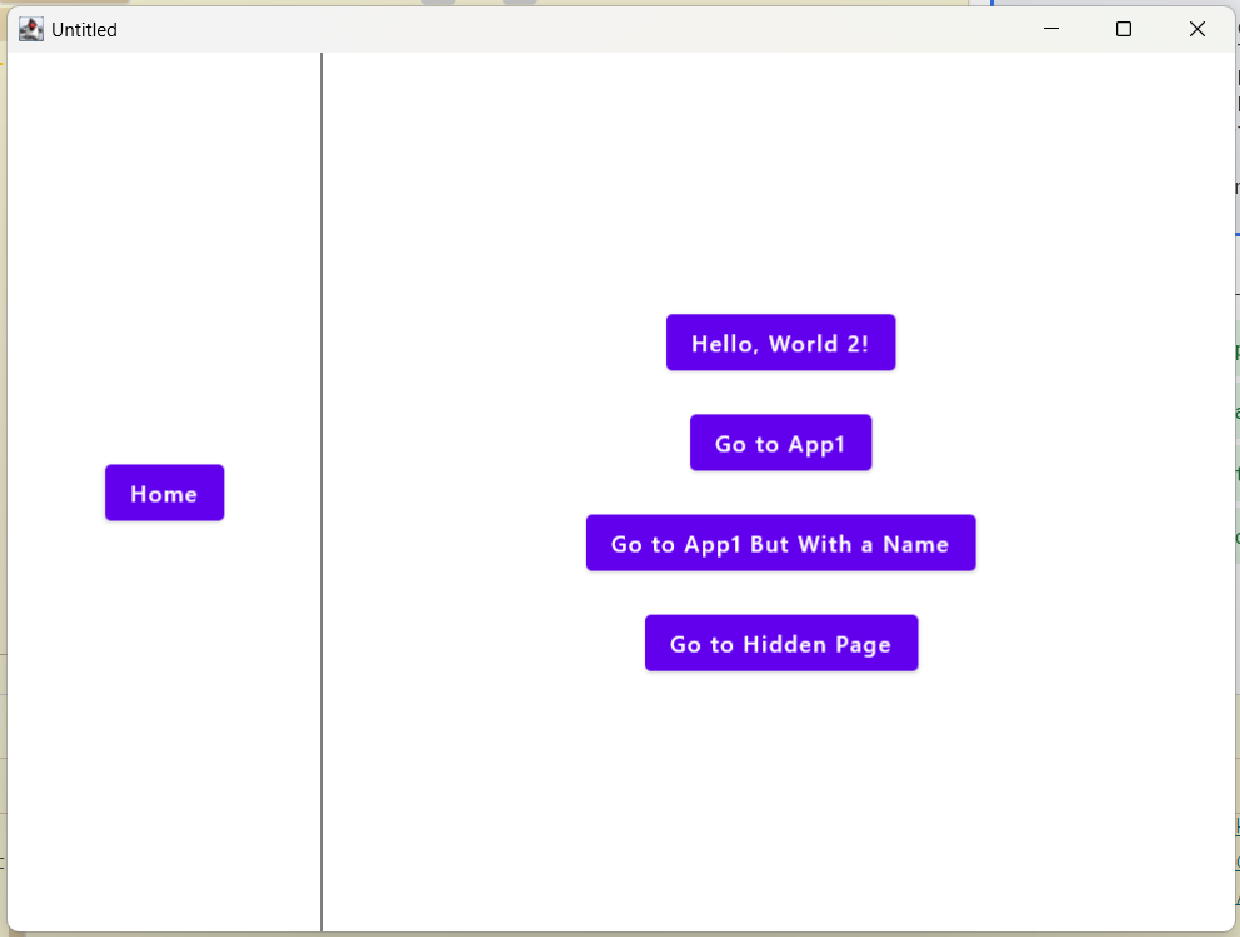
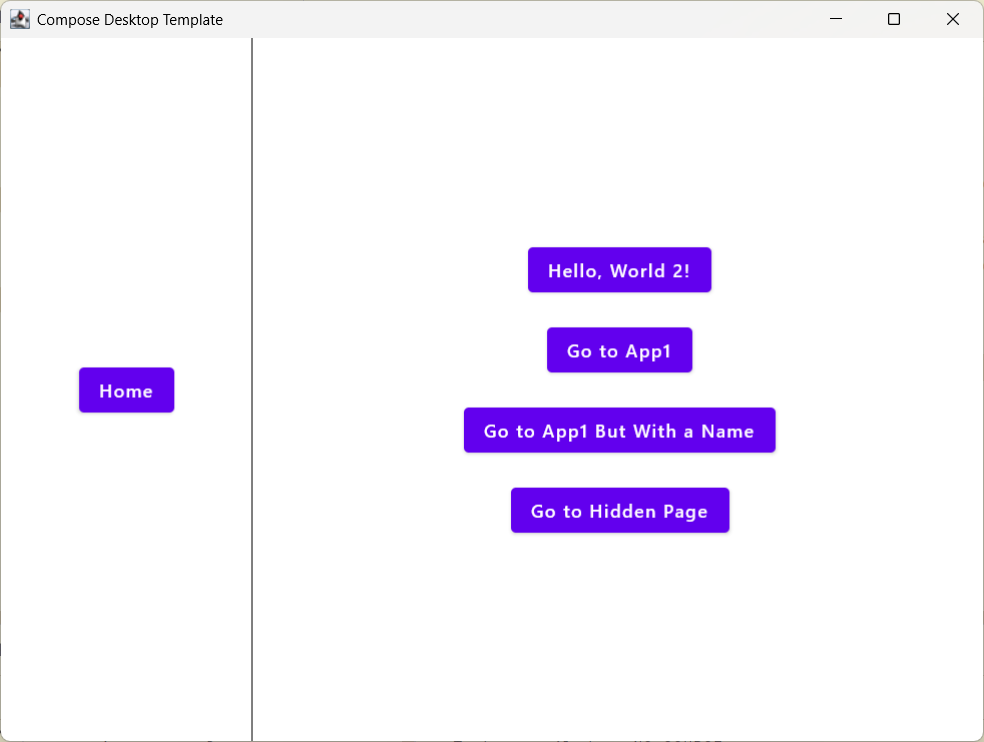
feat(core): add title to window
add kommit option to chore of kommit

diff --git a/src/main/kotlin/xyz/malefic/compose/Main.kt b/src/main/kotlin/xyz/malefic/compose/Main.kt
@@ -34,7 +34,7 @@ import xyz.malefic.ext.stream.grass
  */
 fun main() =
     application {
-        NavWindow(onCloseRequest = ::exitApplication) {
+        NavWindow(onCloseRequest = ::exitApplication, title = "Compose Desktop Template") {
             // Initialize the route manager
             RouteManager.initialize(
                 composableMap,
